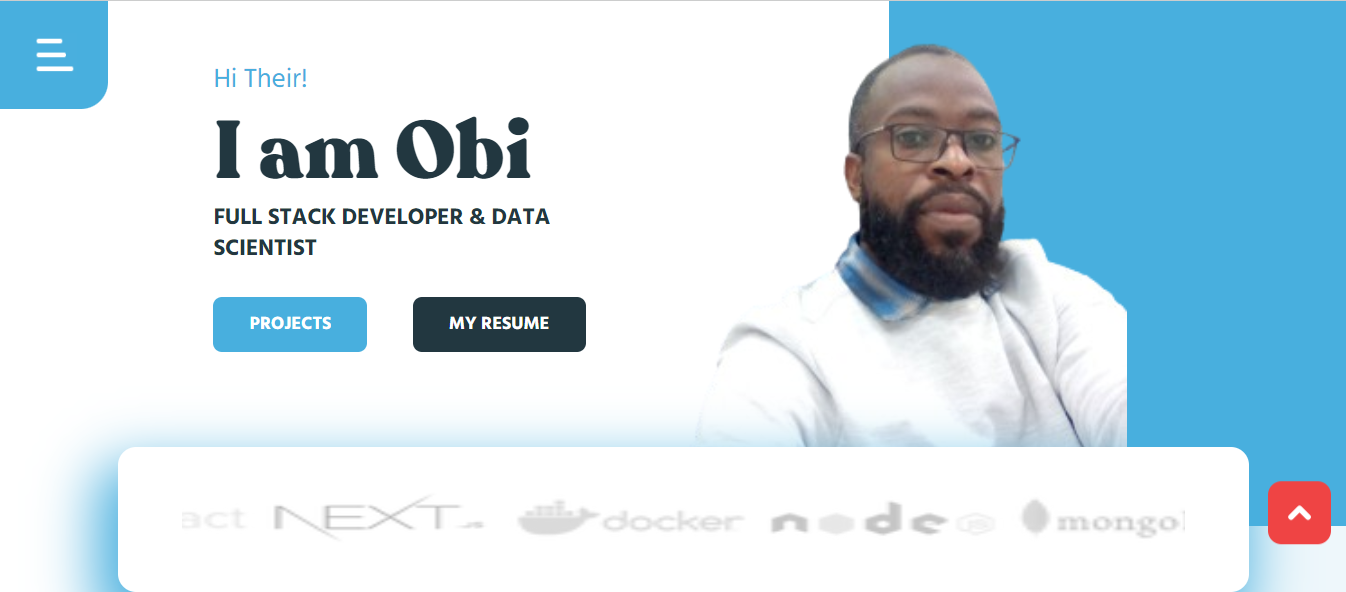
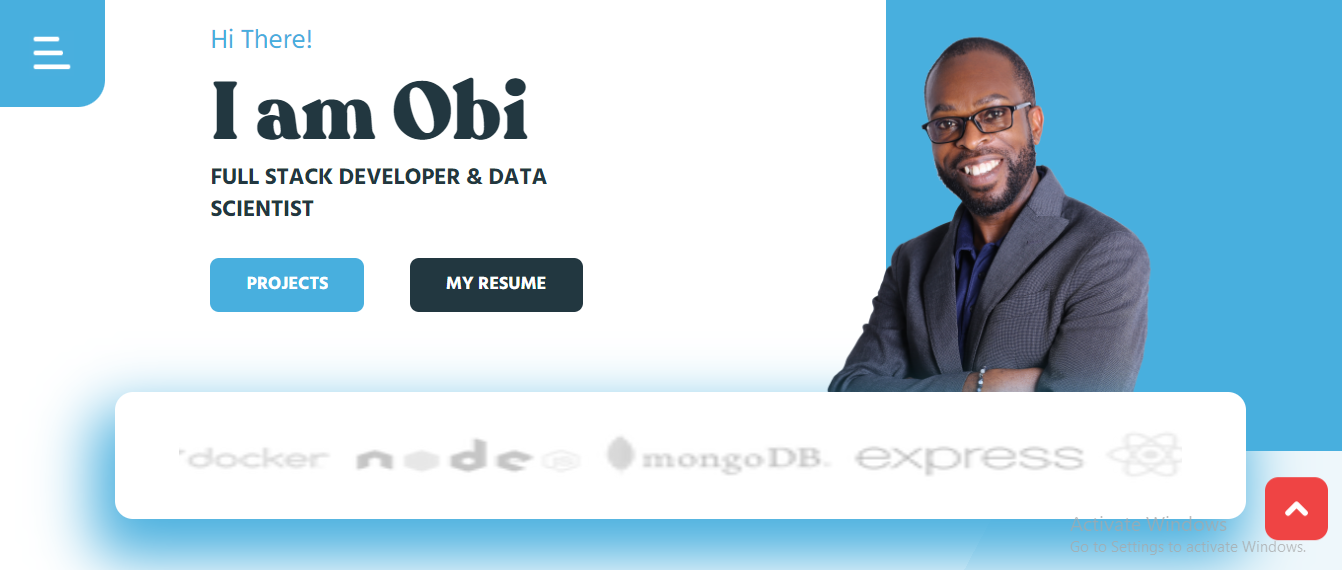
modification on the home portfolioimage

diff --git a/src/app/components/HomeComponent/HomeComponent.js b/src/app/components/HomeComponent/HomeComponent.js
@@ -118,7 +118,7 @@ const HomeComponent = () => {
                   <p
                     className={`text-[#47AEDE] text-3xl md:text-base lg:text-2xl ${hind.className}`}
                   >
-                    Hi Their!
+                    Hi There!
                   </p>
                   <h1 className="text-[#223740] font-recoletaBlack text-5xl md:text-5xl lg:text-7xl xl:text-7xl mt-5 md:mt-3">
                     I am Obi
@@ -145,18 +145,18 @@ const HomeComponent = () => {
               </div>
             </div>
             {/* implementing the profile image */}
-            <div className="md:col-span-7 col-span-12 md:pt-[130px] pt-[50px] md:bg-transparent bg-[#d9eef7]">
+            <div className="md:col-span-7 col-span-12 md:pt-[100px] pt-[30px] md:bg-transparent bg-[#d9eef7]">
               <div className="m-auto container style={{width: '100%', height: '100%'}}">
                 <img
                   className=""
-                  src="/obi7.png"
+                  src="/obi.png"
                   alt="Full Stack Developer"
                   decoding="async"
                   data-nimg="intrinsic"
                   width={0}
                   height={0}
                   sizes="100vw"
-                  style={{ width: "80%", height: "auto" }}
+                  style={{ width: "100%", height: "auto" }}
                 />
               </div>
             </div>
@@ -165,12 +165,12 @@ const HomeComponent = () => {
           <div className="container m-auto absolute">
             <div className="px-3">
               <div
-                className="relative max-w-sm bottom-[70px] md:max-w-xl lg:max-w-5xl xl:max-w-6xl lg:px-14 px-5 overflow-auto mx-auto bg-white rounded-2xl z-20 "
+                className="relative max-w-sm bottom-[50px] md:max-w-xl lg:max-w-5xl xl:max-w-6xl lg:px-14 px-5 overflow-auto mx-auto bg-white rounded-2xl z-20 "
                 style={{
                   boxShadow: "#48AFDE -10px 25px 50px 10px",
                 }}
               >
-                <div className="lg:py-10 py-10 md:py-6 cursor-all-scroll">
+                <div className="lg:py-8 py-8 md:py-6 cursor-all-scroll">
                   <Slider {...settings}>
                     <Image
                       height={8}

diff --git a/src/app/data.js b/src/app/data.js
@@ -130,7 +130,7 @@ export const DataArray = [
   {
     title: "Crypto Trading Website",
     name: "Crypto Trading project",
-    des: "We buit this website for BigMoney group",
+    des: "We built this website for BigMoney group",
     des1: "This project was built to enable clients all over the world to buy and sell their crypto.",
 
     images: ["/crypto5.png", "/crypto3.png", "/crypto1.png"],
